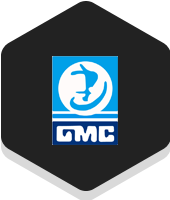
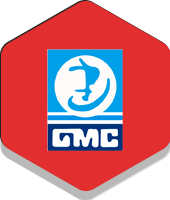
添加

diff --git a/index.html b/index.html
@@ -278,7 +278,7 @@
 
 	<ul class="accordian">
 		<li class="project-css3">
-			<div class="price-left-middle" id="hexagon1">
+			<div class="price-left-middle" id="hexagon2">
 				<div class="price-left-two"  id="img-sketch">
 					<h5>画板</h5>
 					<a href="/angular-sketch"> </a>
@@ -325,7 +325,7 @@
 			</div>
 		</li>
 		<li class="project-css3">
-			<div class="price-left-middle" id="hexagon1">
+			<div class="price-left-middle" id="hexagon2">
 				<div class="price-left-two"  id="img-icloud">
 					<h5>iCloud</h5>
 					<a href="/angular-iCloud-reminder"> </a>
@@ -340,10 +340,10 @@
 			</div>
 		</li>
 		<li class="project-css3">
-			<div class="price-left-middle" id="hexagon1">
-				<div class="price-left-two"  id="img-icloud">
-					<h5>iCloud</h5>
-					<a href="/angular-iCloud-reminder"> </a>
+			<div class="price-left-middle" id="hexagon2">
+				<div class="price-left-two"  id="saolei">
+					<h5>扫雷</h5>
+					<a href="/saolei"> </a>
 				</div>
 				<ul>
 					<li><a href="#">angular.js</a></li>
@@ -355,10 +355,10 @@
 			</div>
 		</li>
 		<li class="project-css3">
-			<div class="price-left-middle" id="hexagon1">
-				<div class="price-left-two"  id="img-icloud">
-					<h5>iCloud</h5>
-					<a href="/angular-iCloud-reminder"> </a>
+			<div class="price-left-middle" id="hexagon2">
+				<div class="price-left-two"  id="guangzhoujianzhu">
+					<h5>广州建筑</h5>
+					<a href="/guangzhoujianzhu"> </a>
 				</div>
 				<ul>
 					<li><a href="#">angular.js</a></li>
@@ -370,10 +370,10 @@
 			</div>
 		</li>
 		<li class="project-css3">
-			<div class="price-left-middle" id="hexagon1">
-				<div class="price-left-two"  id="img-icloud">
-					<h5>iCloud</h5>
-					<a href="/angular-iCloud-reminder"> </a>
+			<div class="price-left-middle" id="hexagon2">
+				<div class="price-left-two"  id="student">
+					<h5>学生管理</h5>
+					<a href="/student"> </a>
 				</div>
 				<ul>
 					<li><a href="#">angular.js</a></li>
@@ -385,10 +385,10 @@
 			</div>
 		</li>
 		<li class="project-css3">
-			<div class="price-left-middle" id="hexagon1">
-				<div class="price-left-two"  id="img-icloud">
-					<h5>iCloud</h5>
-					<a href="/angular-iCloud-reminder"> </a>
+			<div class="price-left-middle" id="hexagon2">
+				<div class="price-left-two"  id="watch">
+					<h5>Watch</h5>
+					<a href="/watch"> </a>
 				</div>
 				<ul>
 					<li><a href="#">angular.js</a></li>

diff --git a/css/style.css b/css/style.css
@@ -462,7 +462,18 @@ color:#000;
 #fullPage{
 	background-image: url(../images/fullpage.png);
 }
-
+#saolei{
+	background: url(../images/saolei.png);
+}
+#guangzhoujianzhu{
+	background: url(../images/guangzhoujianzhu.png);
+}
+#student{
+	background: url(../images/student.png);
+}
+#watch{
+	background: url(../images/watch.png);
+}
 .project-left img{
 	width:100%;
 }
@@ -2458,7 +2469,7 @@ ul.callbacks_tabs.callbacks2_tabs {
 
 
 @media(max-width:640px){
-
+	
 }
 
 
